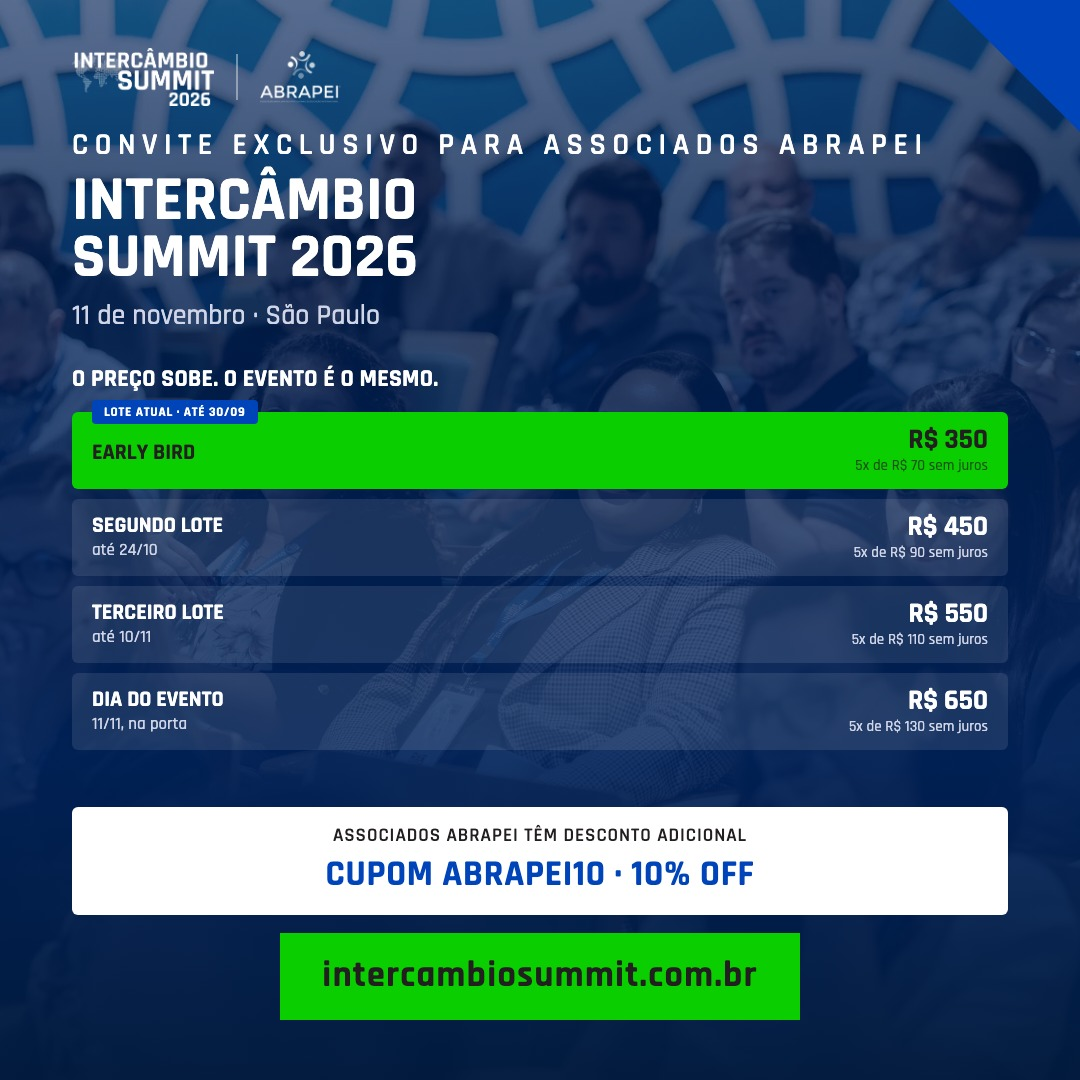
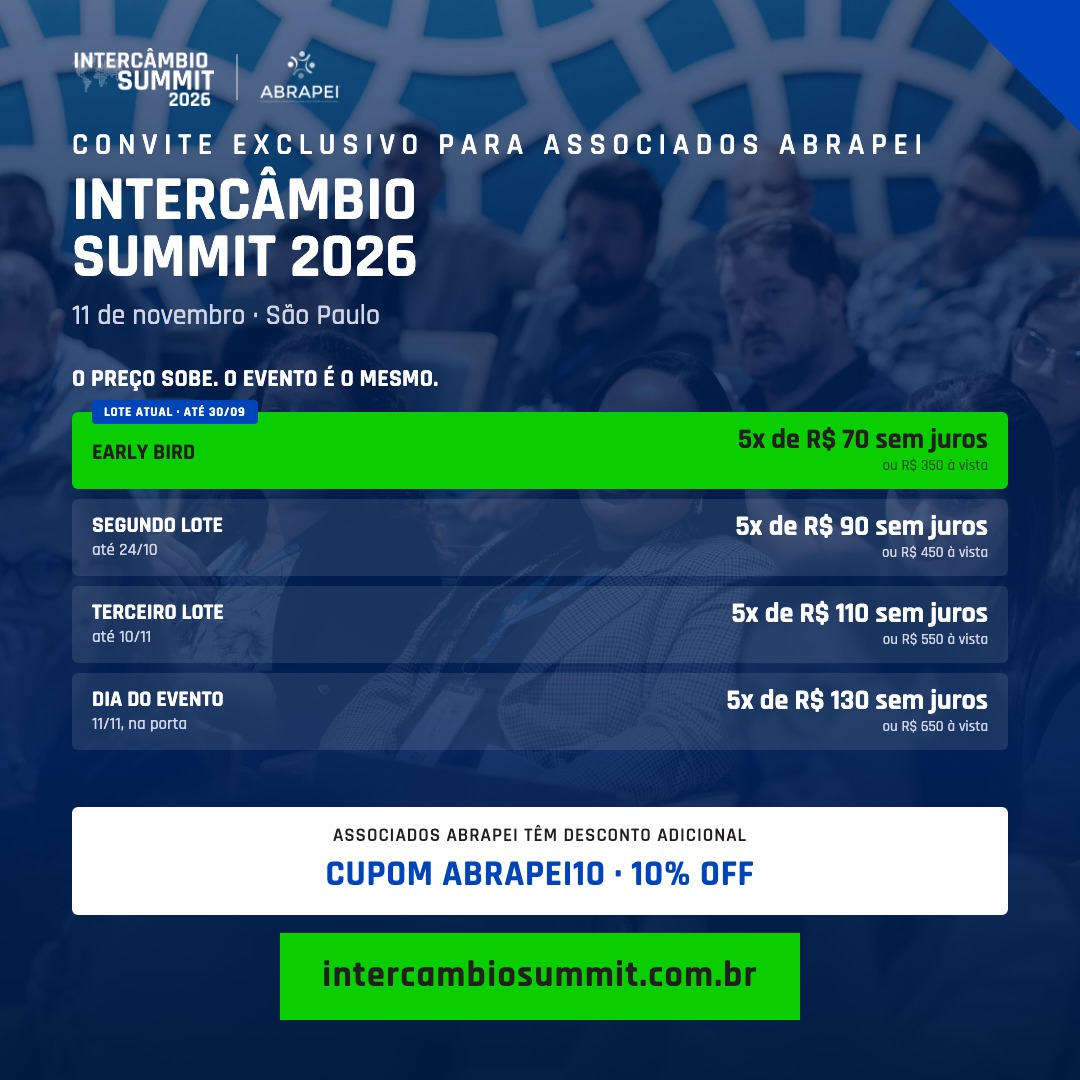
Inverte destaque de preço nas faixas: parcela 5x maior, valor à vista menor

Changed region(s): [[0.6722, 0.3972, 0.9167, 0.5194], [0.6722, 0.55, 0.9167, 0.6111], [0.6722, 0.6417, 0.9167, 0.7028]]

diff --git a/criativos/templates/convite-parceiro-precos-whatsapp.html b/criativos/templates/convite-parceiro-precos-whatsapp.html
@@ -35,12 +35,12 @@
   .lote .nome { font-weight: 700; font-size: 22px; text-transform: uppercase; color: var(--white); line-height: 1.1; }
   .lote .prazo { font-weight: 500; font-size: 17px; color: var(--mid-grey); }
   .lote .valor-col { text-align: right; flex: none; }
-  .lote .valor { font-weight: 700; font-size: 28px; color: var(--white); line-height: 1; }
-  .lote .parc { font-weight: 500; font-size: 15px; color: var(--mid-grey); margin-top: 2px; }
+  .lote .parc { font-weight: 700; font-size: 28px; color: var(--white); line-height: 1; }
+  .lote .valor { font-weight: 500; font-size: 15px; color: var(--mid-grey); margin-top: 2px; }
 
   .lote.destaque { background: var(--action-green); }
-  .lote.destaque .nome, .lote.destaque .valor { color: var(--charcoal); }
-  .lote.destaque .prazo, .lote.destaque .parc { color: rgba(35,31,32,.72); }
+  .lote.destaque .nome, .lote.destaque .parc { color: var(--charcoal); }
+  .lote.destaque .prazo, .lote.destaque .valor { color: rgba(35,31,32,.72); }
   .lote.destaque .selo { position: absolute; top: -12px; left: 20px;
     background: var(--summit-blue); color: var(--white);
     font-weight: 700; font-size: 13px; letter-spacing: .06em; text-transform: uppercase;
@@ -79,19 +79,19 @@
       <div class="lote destaque">
         <span class="selo">Lote atual · até 30/09</span>
         <div class="nome-col"><div class="nome" style="margin-top:6px;">Early Bird</div></div>
-        <div class="valor-col"><div class="valor">R$ 350</div><div class="parc">5x de R$ 70 sem juros</div></div>
+        <div class="valor-col"><div class="parc">5x de R$ 70 sem juros</div><div class="valor">ou R$ 350 à vista</div></div>
       </div>
       <div class="lote">
         <div class="nome-col"><div class="nome">Segundo lote</div><div class="prazo">até 24/10</div></div>
-        <div class="valor-col"><div class="valor">R$ 450</div><div class="parc">5x de R$ 90 sem juros</div></div>
+        <div class="valor-col"><div class="parc">5x de R$ 90 sem juros</div><div class="valor">ou R$ 450 à vista</div></div>
       </div>
       <div class="lote">
         <div class="nome-col"><div class="nome">Terceiro lote</div><div class="prazo">até 10/11</div></div>
-        <div class="valor-col"><div class="valor">R$ 550</div><div class="parc">5x de R$ 110 sem juros</div></div>
+        <div class="valor-col"><div class="parc">5x de R$ 110 sem juros</div><div class="valor">ou R$ 550 à vista</div></div>
       </div>
       <div class="lote">
         <div class="nome-col"><div class="nome">Dia do evento</div><div class="prazo">11/11, na porta</div></div>
-        <div class="valor-col"><div class="valor">R$ 650</div><div class="parc">5x de R$ 130 sem juros</div></div>
+        <div class="valor-col"><div class="parc">5x de R$ 130 sem juros</div><div class="valor">ou R$ 650 à vista</div></div>
       </div>
     </div>
 
